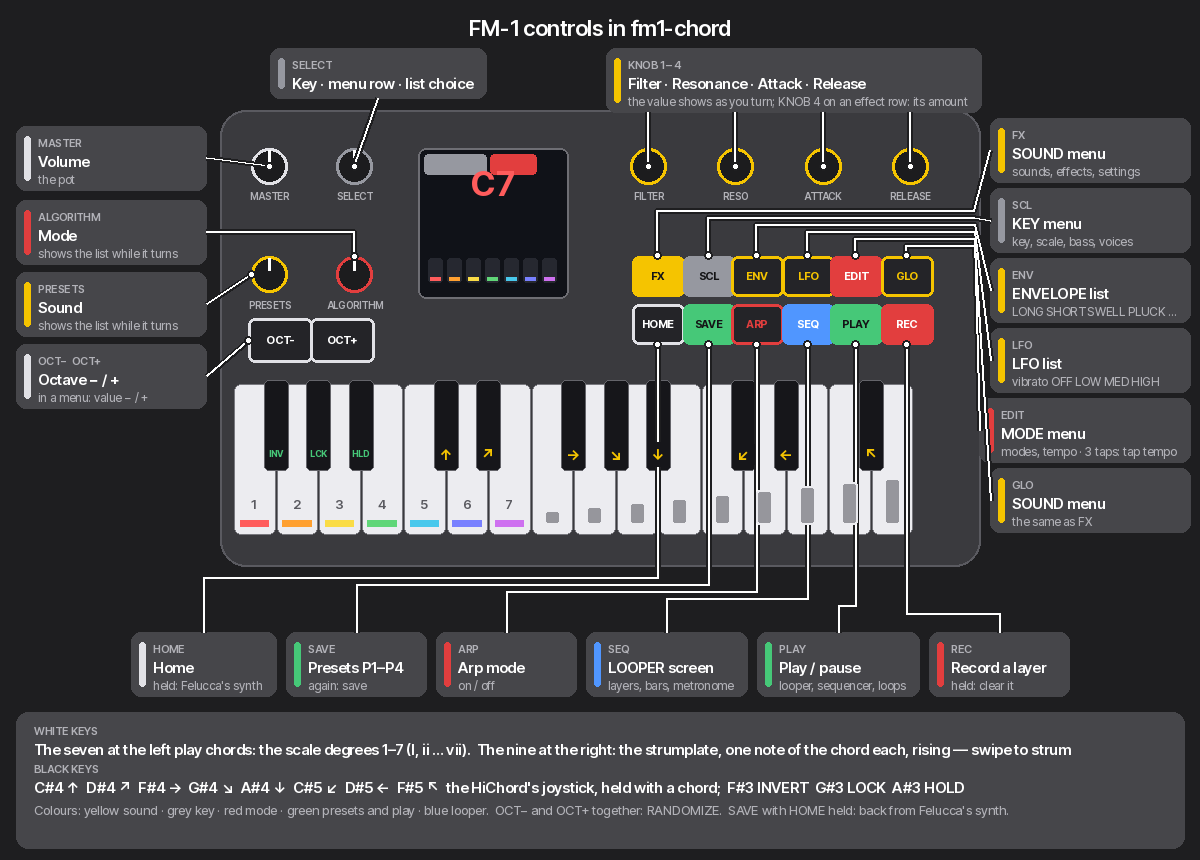
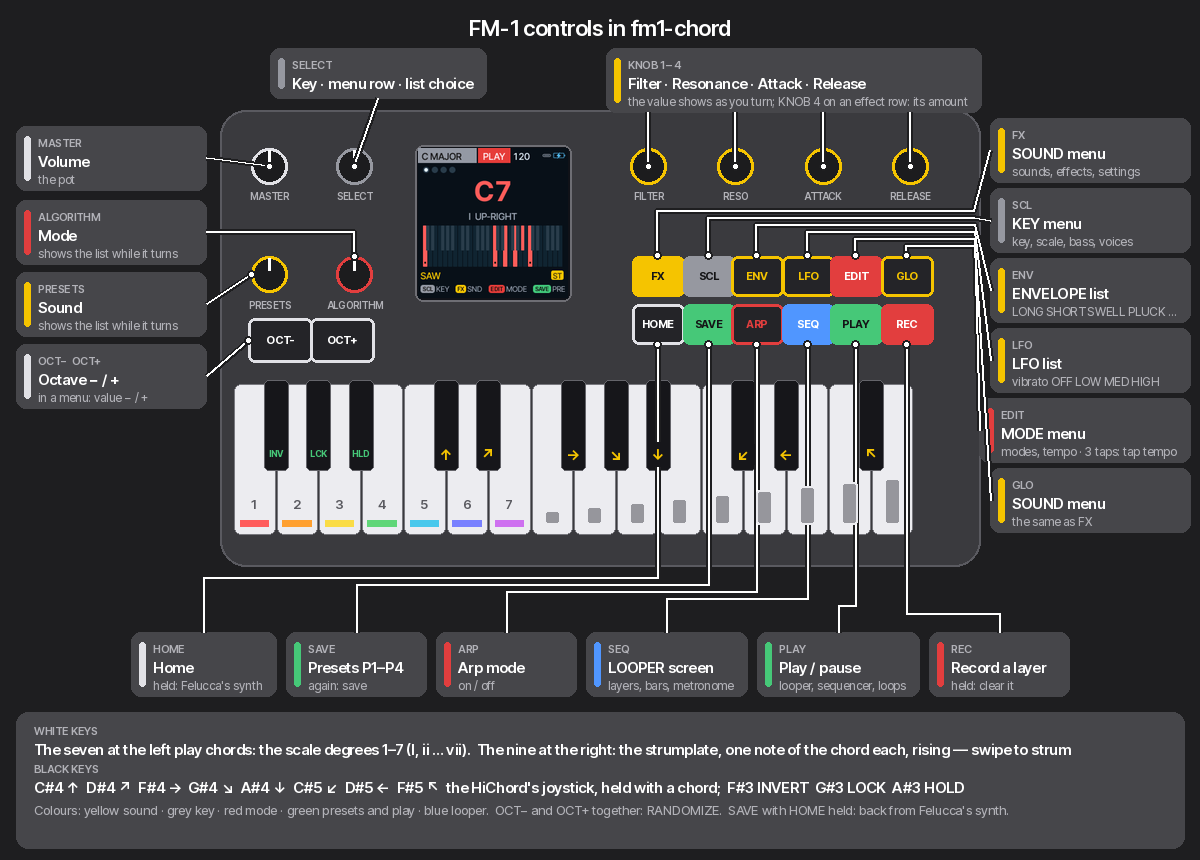
Controls diagram: the real HOME screen on the device; the README shows the screens first
The diagram's screen is screenshots/home_c7.png (the rendered HOME with a
C7 held) in a bezel, no longer a sketch of it. The README puts the
screenshot grid before the diagram.

Changed region(s): [[0.3392, 0.1512, 0.4933, 0.3628]]

diff --git a/tools/gen_controls_diagram.py b/tools/gen_controls_diagram.py
@@ -87,16 +87,15 @@ def key_labels(d, ky):
         d.text((x + 12, ky + 70), BLACK_FN[p], fill=col, font=font(9 if p < 3 else 15, 700), anchor="mm")
 
 
-def draw_device(d):
+SCREEN = ROOT / "screenshots/home_c7.png"               # the real HOME screen (tests/hui_shot.c), on the device
+
+
+def draw_device(im, d):
     d.rounded_rectangle((DX, DY, DX + DW, DY + DH), 26, fill=(58, 58, 62), outline=(90, 90, 96), width=2)
-    sx, sy = dev(490, 140)                                   # the screen
-    d.rounded_rectangle((sx, sy, sx + 150, sy + 150), 8, fill=(16, 18, 24), outline=(110, 110, 116), width=2)
-    d.rounded_rectangle((sx + 6, sy + 6, sx + 68, sy + 26), 4, fill=GREY)
-    d.rounded_rectangle((sx + 72, sy + 6, sx + 118, sy + 26), 4, fill=RED)
-    d.text((sx + 75, sy + 36), "C7", fill=DEG[0], font=font(34, 700), anchor="mm")
-    for i in range(7):
-        d.rounded_rectangle((sx + 10 + i * 19, sy + 110, sx + 24 + i * 19, sy + 134), 3, fill=(38, 40, 48))
-        d.rectangle((sx + 12 + i * 19, sy + 129, sx + 22 + i * 19, sy + 132), fill=DEG[i])
+    sx, sy = dev(490, 140)                                   # the screen: a rendered screenshot in its bezel
+    sx, sy = int(sx), int(sy)
+    d.rounded_rectangle((sx - 3, sy - 3, sx + 153, sy + 153), 8, fill=(16, 18, 24), outline=(110, 110, 116), width=2)
+    im.paste(Image.open(SCREEN).convert("RGB").resize((150, 150), Image.LANCZOS), (sx, sy))
     for n, (x, y) in KNOBS.items():                           # the knobs, ringed in their colour
         cx, cy = dev(x, y)
         d.ellipse((cx - 18, cy - 18, cx + 18, cy + 18), fill=(28, 28, 30), outline=KNOB_COL[n], width=3)
@@ -160,7 +159,7 @@ def main(out):
     im = Image.new("RGB", (W, H), BG)
     d = ImageDraw.Draw(im)
     d.text((W / 2, 28), "FM-1 controls in fm1-chord", fill=INK, font=font(22, 600), anchor="mm")
-    ky = draw_device(d)
+    ky = draw_device(im, d)
     # left column: each card level with its control; the ALGORITHM one is reached over the PRESETS knob
     mx, my = dev(*KNOBS["MASTER"])
     px, py = dev(*KNOBS["PRESETS"])

diff --git a/README.md b/README.md
@@ -29,8 +29,6 @@ menu); tempo is on the mode menu and EDIT tapped three times. Chords over
 drums: record the drum loop into a looper layer; the drum screens show the loop to time it. Your
 settings come back after power-off. HOME held gives you Felucca's full synth underneath.
 
-![controls](screenshots/controls.png)
-
 | | | |
 |---|---|---|
 | ![home](screenshots/home_c7.png) | ![slash chord](screenshots/home_slash.png) | ![inversion](screenshots/home_inverted.png) |
@@ -38,6 +36,8 @@ settings come back after power-off. HOME held gives you Felucca's full synth und
 | ![key menu](screenshots/menu_key.png) | ![sound menu](screenshots/menu_sound_amount.png) | ![mode menu](screenshots/menu_mode.png) |
 | ![looper](screenshots/menu_looper.png) | ![sequencer](screenshots/mode_sequencer.png) | ![drum loop recording](screenshots/mode_drumloop_rec.png) |
 | ![drums](screenshots/mode_drum.png) | ![at rest: the key legend](screenshots/home_idle.png) | ![chord hiro](screenshots/mode_hiro.png) |
+
+![controls](screenshots/controls.png)
 
 Status: running on an FM-1 (installed over USB-MIDI with `tools/fm1_install.py`, 28 % CPU at idle)
 and tested on the host simulator. It also runs in the
